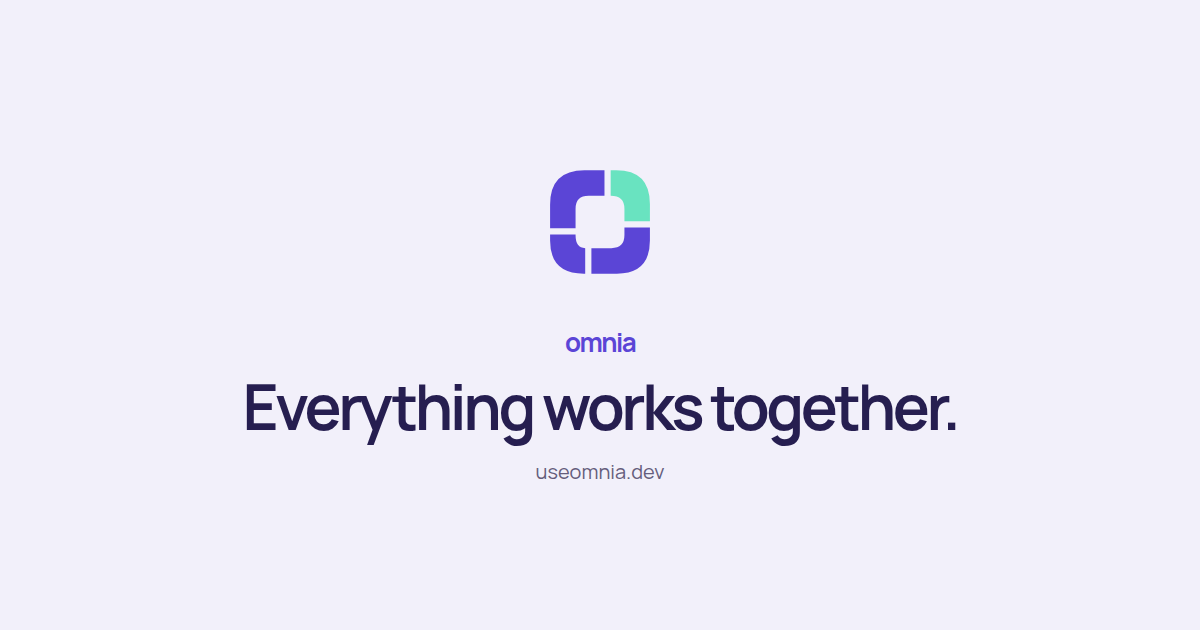
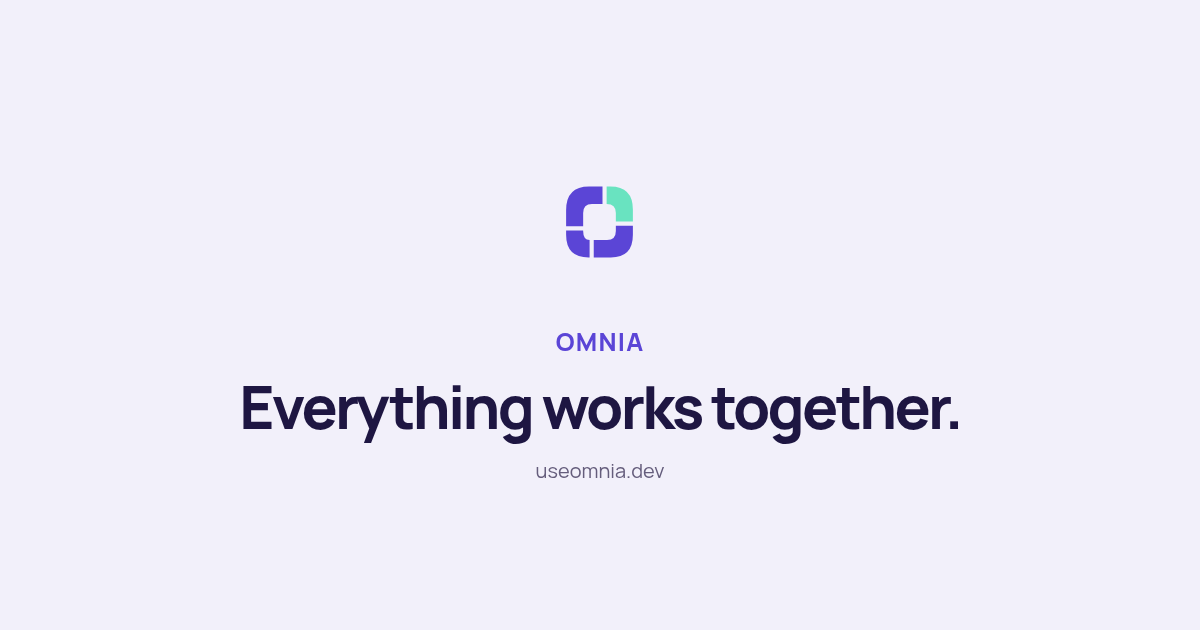
Capitalize the wordmark: OMNIA, set to the Color Book lockup
The identity renders the wordmark in caps next to the "O" mark. The site
carried a lowercase "omnia" everywhere, with tracking tuned for lowercase
(-0.065em), so the caps lockup read cramped.

Lockup geometry now comes from OMNIA_Tech_Color_Book.pdf (page 2,
"Horizontal logo"), measured off the artwork: cap height 0.63x the mark's
ink height, gap 0.30x, wordmark width 4.98x the cap height.

- OMNIA in the header, footer, welcome wordmark, 404 and both admin pages,
  plus the giant cropped footer word.
- Mark boxes were slightly squashed (32x35 vs the 430x440 artwork); they
  now hold the 0.977 aspect at 43x44 (34x37 under 760px, 30x33 under 360px).
- Tracking inverted from -0.065em to 0.05em, and sizes rebalanced so the
  mark leads the lockup as it does in the book.
- assets/og.png re-rendered with the same lockup and OMNIA.

diff --git a/styles.css b/styles.css
@@ -176,16 +176,16 @@ h1:focus {
 .brand {
   display: inline-flex;
   align-items: center;
-  gap: 10px;
-  font-size: 32px;
-  letter-spacing: -0.065em;
+  gap: 9px;
+  font-size: 26px;
+  letter-spacing: 0.05em;
   font-weight: 750;
   color: var(--violet);
   flex-shrink: 0;
 }
 .brand svg {
-  width: 32px;
-  height: 35px;
+  width: 43px;
+  height: 44px;
   fill: currentColor;
   stroke: none;
 }
@@ -1155,11 +1155,11 @@ details[data-expanded="true"] .detail-plus {
   gap: 30px;
 }
 .footer-top > .brand {
-  font-size: 25px;
+  font-size: 22px;
 }
 .footer-top > .brand svg {
-  width: 26px;
-  height: 28px;
+  width: 34px;
+  height: 37px;
 }
 .footer-top > p {
   font-size: 11px;
@@ -1176,7 +1176,7 @@ details[data-expanded="true"] .detail-plus {
   font-size: clamp(150px, 29.2vw, 420px);
   font-weight: 700;
   line-height: 0.96;
-  letter-spacing: -0.075em;
+  letter-spacing: -0.05em;
   color: #ddd5f4;
   padding: 35px 0 0;
   user-select: none;
@@ -1453,11 +1453,11 @@ details[data-expanded="true"] .detail-plus {
 }
 @media (max-width: 800px) and (min-width: 761px) {
   .header .brand {
-    font-size: 27px;
+    font-size: 22px;
   }
   .brand svg {
-    width: 28px;
-    height: 30px;
+    width: 34px;
+    height: 37px;
   }
   .header nav {
     font-size: 10px;
@@ -1568,12 +1568,12 @@ details[data-expanded="true"] .detail-plus {
     gap: 15px;
   }
   .header .brand {
-    font-size: 28px;
-    gap: 8px;
+    font-size: 22px;
+    gap: 7px;
   }
   .header .brand svg {
-    width: 28px;
-    height: 30px;
+    width: 34px;
+    height: 37px;
   }
   .header-actions {
     gap: 10px;
@@ -2024,11 +2024,11 @@ details[data-expanded="true"] .detail-plus {
     width: calc(100% - 32px);
   }
   .header .brand {
-    font-size: 25px;
-    gap: 6px;
+    font-size: 20px;
+    gap: 7px;
   }
   .header .brand svg {
-    width: 25px;
+    width: 30px;
   }
   .header .small-cta {
     padding: 9px 12px;
@@ -11628,7 +11628,7 @@ details[open]:not([data-expanded]) .detail-plus {
   overflow: hidden;
   text-align: center;
   white-space: nowrap;
-  letter-spacing: -0.075em;
+  letter-spacing: -0.05em;
 }
 @media (max-width: 760px) {
   .footer-word {
@@ -11644,7 +11644,7 @@ details[open]:not([data-expanded]) .detail-plus {
 }
 @media (max-width: 760px) {
   .footer-word {
-    font-size: 31vw;
+    font-size: 29vw;
     height: 0.66em;
   }
 }

diff --git a/index.html b/index.html
@@ -142,7 +142,7 @@
 
     <div class="welcome" id="welcome" aria-label="Welcome to Omnia">
       <div class="welcome-top">
-        <span class="wordmark">omnia</span
+        <span class="wordmark">OMNIA</span
         ><span class="launch-status">Coming soon</span>
       </div>
       <div class="welcome-center">
@@ -182,7 +182,7 @@
           <a class="brand" href="#main" aria-label="Omnia home"
             ><svg viewBox="0 0 430 440" aria-hidden="true">
               <use href="#mark" /></svg
-            ><span>omnia</span></a
+            ><span>OMNIA</span></a
           >
           <nav id="navigation" aria-label="Main navigation">
             <a href="#omnia-os-overview">Omnia OS</a
@@ -2009,7 +2009,7 @@
           <a class="brand" href="#main" aria-label="Omnia home"
             ><svg viewBox="0 0 430 440" aria-hidden="true">
               <use href="#mark" /></svg
-            ><span>omnia</span></a
+            ><span>OMNIA</span></a
           >
           <p>Everything works together.</p>
           <div>
@@ -2017,7 +2017,7 @@
             ><span>© <span id="year">2026</span> Omnia</span>
           </div>
         </div>
-        <span class="footer-word" aria-hidden="true">omnia</span>
+        <span class="footer-word" aria-hidden="true">OMNIA</span>
       </footer>
     </div>
   </body>

diff --git a/404.html b/404.html
@@ -11,9 +11,9 @@
   </head>
   <body>
     <main class="container" style="padding: 12vh 0 20vh">
-      <a class="brand" href="/"
-        ><img src="/assets/omnia-mark.svg" width="32" height="35" alt="" /><span
-          >omnia</span
+      <a class="brand" href="/" aria-label="Omnia home"
+        ><img src="/assets/omnia-mark.svg" width="43" height="44" alt="" /><span
+          >OMNIA</span
         ></a
       >
       <h1 style="font-size: clamp(42px, 6vw, 72px); letter-spacing: -0.05em; margin: 48px 0 16px">

diff --git a/admin/index.html b/admin/index.html
@@ -13,13 +13,13 @@
   <body>
     <main class="admin container">
       <header class="admin-heading">
-        <a href="/" class="brand"
+        <a href="/" class="brand" aria-label="Omnia home"
           ><img
             src="/assets/omnia-mark.svg"
-            width="34"
-            height="34"
+            width="43"
+            height="44"
             alt=""
-          />omnia</a
+          />OMNIA</a
         ><span>Private inbox</span>
       </header>
       <div class="admin-title">

diff --git a/admin/login.html b/admin/login.html
@@ -14,8 +14,8 @@
   <body>
     <main class="admin container login-panel">
       <header class="admin-heading">
-        <a href="/" class="brand"
-          ><img src="/assets/omnia-mark.svg" width="34" height="34" alt="" />omnia</a
+        <a href="/" class="brand" aria-label="Omnia home"
+          ><img src="/assets/omnia-mark.svg" width="43" height="44" alt="" />OMNIA</a
         ><span>Private inbox</span>
       </header>
       <div class="admin-title">

diff --git a/launch.css b/launch.css
@@ -35,9 +35,9 @@
 }
 
 .wordmark {
-  font-size: 28px;
+  font-size: 27px;
   font-weight: 750;
-  letter-spacing: -0.07em;
+  letter-spacing: 0.05em;
   color: var(--violet);
 }
 
